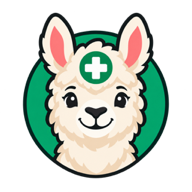
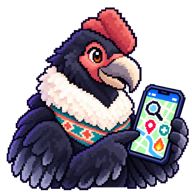
feat: rename project from FarmaJUY to CondorJUY and update related assets

diff --git a/components/pwa-actions.tsx b/components/pwa-actions.tsx
@@ -93,7 +93,7 @@ function getInstallGuide(environment: InstallEnvironment): InstallGuide {
     case 'ios-other':
       return {
         title: 'Instalar en iPhone o iPad',
-        intro: 'Desde el navegador donde abriste FarmaJUY:',
+        intro: 'Desde el navegador donde abriste CondorJUY:',
         steps: ['Abrí el menú del navegador y tocá Compartir.', 'Elegí Agregar a pantalla principal.', 'Confirmá tocando Agregar.'],
         note: 'La ubicación de Compartir puede variar según el navegador.',
       }
@@ -139,14 +139,14 @@ function getInstallGuide(environment: InstallEnvironment): InstallGuide {
     case 'android-webview':
       return {
         title: 'Abrir en un navegador para instalar',
-        intro: 'Abriste FarmaJUY dentro de otra aplicación:',
-        steps: ['Abrí el menú de esta pantalla.', 'Elegí Abrir en Chrome, Abrir en el navegador o una opción similar.', 'En el navegador, volvé a tocar Instalar FarmaJUY.'],
+        intro: 'Abriste CondorJUY dentro de otra aplicación:',
+        steps: ['Abrí el menú de esta pantalla.', 'Elegí Abrir en Chrome, Abrir en el navegador o una opción similar.', 'En el navegador, volvé a tocar Instalar CondorJUY.'],
         note: 'Los navegadores internos de algunas aplicaciones no permiten instalar aplicaciones web.',
       }
     case 'android-other':
       return {
         title: 'Instalar en Android',
-        intro: 'Desde el navegador donde abriste FarmaJUY:',
+        intro: 'Desde el navegador donde abriste CondorJUY:',
         steps: ['Abrí el menú del navegador.', 'Buscá Instalar, Añadir a o Agregar a pantalla principal.', 'Elegí la opción disponible y confirmá.'],
         note: 'Algunos navegadores crean un acceso directo en lugar de instalar la aplicación completa.',
       }
@@ -171,21 +171,21 @@ function getInstallGuide(environment: InstallEnvironment): InstallGuide {
     case 'mac-other':
       return {
         title: 'Instalar en macOS',
-        intro: 'Abrí FarmaJUY con Safari o Google Chrome para instalarla:',
+        intro: 'Abrí CondorJUY con Safari o Google Chrome para instalarla:',
         steps: ['En Safari: Compartir o Archivo → Agregar al Dock.', 'En Chrome: menú ⋮ → Enviar, guardar y compartir.', 'Elegí Instalar página como aplicación y confirmá.'],
         note: 'Safari requiere macOS Sonoma 14 o posterior.',
       }
     case 'windows-other':
       return {
         title: 'Instalar en Windows',
-        intro: 'Abrí FarmaJUY con Microsoft Edge o Google Chrome:',
+        intro: 'Abrí CondorJUY con Microsoft Edge o Google Chrome:',
         steps: ['Abrí el menú de tres puntos del navegador.', 'En Edge elegí Aplicaciones; en Chrome, Enviar, guardar y compartir.', 'Elegí Instalar este sitio/página como aplicación y confirmá.'],
         note: 'Algunos navegadores de escritorio no permiten instalar aplicaciones PWA.',
       }
     default:
       return {
         title: 'Instalar en la computadora',
-        intro: 'Abrí FarmaJUY con Google Chrome o Microsoft Edge:',
+        intro: 'Abrí CondorJUY con Google Chrome o Microsoft Edge:',
         steps: ['Abrí el menú de tres puntos del navegador.', 'Buscá la sección Aplicaciones o Enviar, guardar y compartir.', 'Elegí Instalar este sitio/página como aplicación y confirmá.'],
         note: 'Algunos navegadores de escritorio no permiten instalar aplicaciones PWA.',
       }
@@ -222,7 +222,7 @@ export function PwaActions({
       setInstallPrompt(null)
       setShowInstallHelp(false)
       setIsStandalone(true)
-      toast.success('FarmaJUY se instaló correctamente.')
+      toast.success('CondorJUY se instaló correctamente.')
     }
 
     window.addEventListener('beforeinstallprompt', handleInstallPrompt)
@@ -262,7 +262,7 @@ export function PwaActions({
     <>
       <div className="flex items-center gap-1">
         {canInstall && (
-          <Button type="button" size="icon" variant="outline" className="h-8 w-8 rounded-xl" onClick={install} aria-label="Instalar FarmaJUY" title="Instalar FarmaJUY">
+          <Button type="button" size="icon" variant="outline" className="h-8 w-8 rounded-xl" onClick={install} aria-label="Instalar CondorJUY" title="Instalar CondorJUY">
             <Download className="h-4 w-4" />
           </Button>
         )}

diff --git a/public/sw.js b/public/sw.js
@@ -1,7 +1,7 @@
-const CACHE_VERSION = 'farmajuy-v1'
+const CACHE_VERSION = 'condorjuy-v1'
 const DATA_CACHE = `${CACHE_VERSION}-data`
 const APP_CACHE = `${CACHE_VERSION}-app`
-const APP_SHELL = ['/', '/manifest.webmanifest', '/farmajuy-icon.png', '/icon-192x192.png', '/icon-512x512.png']
+const APP_SHELL = ['/', '/manifest.webmanifest', '/condorjuy-icon.png', '/icon-192x192.png', '/icon-512x512.png']
 
 self.addEventListener('install', (event) => {
   event.waitUntil(caches.open(APP_CACHE).then((cache) => cache.addAll(APP_SHELL)))
@@ -41,7 +41,7 @@ self.addEventListener('fetch', (event) => {
           return response
         })
         .catch(async () => (await caches.match('/')) || new Response(
-          '<!doctype html><html lang="es"><meta charset="utf-8"><meta name="viewport" content="width=device-width"><title>FarmaJUY sin conexión</title><body><main><h1>Estás sin conexión</h1><p>Abrí FarmaJUY una vez con internet para guardar los últimos turnos.</p></main></body></html>',
+          '<!doctype html><html lang="es"><meta charset="utf-8"><meta name="viewport" content="width=device-width"><title>CondorJUY sin conexión</title><body><main><h1>Estás sin conexión</h1><p>Abrí CondorJUY una vez con internet para guardar los últimos turnos.</p></main></body></html>',
           { headers: { 'Content-Type': 'text/html; charset=utf-8' } },
         )),
     )

diff --git a/components/pharmacy/pharmacy-finder.tsx b/components/pharmacy/pharmacy-finder.tsx
@@ -598,8 +598,8 @@ export function PharmacyFinder() {
         <div className="flex items-center gap-2.5 min-w-0">
           <div className="h-10 w-10 shrink-0" aria-hidden="true">
             <Image
-              src="/farmajuy-icon.png"
-              alt="Logo SaludJUY"
+              src="/condorjuy-icon.png"
+              alt="Logo CondorJUY"
               width={40}
               height={40}
               priority
@@ -609,7 +609,7 @@ export function PharmacyFinder() {
           <div className="min-w-0">
             <div className="flex items-center gap-1.5">
               <h1 className="text-base sm:text-lg font-heading font-black text-foreground tracking-tight leading-none truncate">
-                SaludJUY
+                CondorJUY
               </h1>
               <span className="hidden sm:inline-flex items-center rounded-md bg-emerald-500/10 px-1.5 py-0.5 text-[9px] font-black text-emerald-700 dark:text-emerald-300 uppercase tracking-wider">
                 Jujuy Esencial

diff --git a/app/layout.tsx b/app/layout.tsx
@@ -18,14 +18,14 @@ const poppins = Poppins({
 })
 
 export const metadata: Metadata = {
-  applicationName: 'SaludJUY',
-  title: 'SaludJUY - Farmacias de turno, Centros de Salud y Bomberos en Jujuy',
+  applicationName: 'CondorJUY',
+  title: 'CondorJUY - Servicios esenciales en Jujuy',
   description: 'Mapa interactivo de servicios esenciales en Jujuy: farmacias de turno, nodos sanitarios, CAPS, CIC, puestos de salud y cuarteles de bomberos.',
   keywords: ['farmacias de turno', 'centros de salud', 'CAPS', 'hospital', 'bomberos', 'emergencias', 'Jujuy', 'Argentina'],
   appleWebApp: {
     capable: true,
     statusBarStyle: 'default',
-    title: 'SaludJUY',
+    title: 'CondorJUY',
   },
 }
 

diff --git a/components/feedback.tsx b/components/feedback.tsx
@@ -172,7 +172,7 @@ export function Feedback({ inline = false }: FeedbackProps) {
           <div className="py-6 text-center">
             <div className="mx-auto mb-3 flex h-12 w-12 items-center justify-center rounded-full bg-primary/10 text-2xl text-primary">✓</div>
             <DialogTitle>¡Gracias por escribirnos!</DialogTitle>
-            <p className="mt-2 text-sm text-muted-foreground">Leemos cada mensaje para mejorar FarmaJUY.</p>
+            <p className="mt-2 text-sm text-muted-foreground">Leemos cada mensaje para mejorar CondorJUY.</p>
             <Button className="mt-5" onClick={() => setOpen(false)}>Cerrar</Button>
           </div>
         ) : (

diff --git a/app/manifest.ts b/app/manifest.ts
@@ -2,8 +2,8 @@ import type { MetadataRoute } from 'next'
 
 export default function manifest(): MetadataRoute.Manifest {
   return {
-    name: 'SaludJUY — Farmacias, Centros de Salud y Bomberos en Jujuy',
-    short_name: 'SaludJUY',
+    name: 'CondorJUY — Servicios esenciales en Jujuy',
+    short_name: 'CondorJUY',
     description: 'Farmacias de turno, centros de salud (CAPS, Nodos, CIC) y cuarteles de bomberos en Jujuy.',
     id: '/',
     start_url: '/',

diff --git a/docs/ARQUITECTURA.md b/docs/ARQUITECTURA.md
@@ -1,8 +1,8 @@
-# FarmaJUY — documentación técnica
+# CondorJUY — documentación técnica
 
 ## 1. Propósito
 
-FarmaJUY permite consultar farmacias de turno y permanentes de Jujuy, ubicarlas en un mapa, calcular rutas y recibir feedback de los usuarios.
+CondorJUY permite consultar servicios esenciales de Jujuy, ubicarlos en un mapa, calcular rutas y recibir feedback de los usuarios.
 
 La solución está dividida en dos aplicaciones:
 
@@ -15,7 +15,7 @@ La fuente oficial de turnos es `https://turnosjujuy.com.ar/`. La información se
 
 ```mermaid
 flowchart LR
-    U[Usuario] --> UI[Next.js / FarmaJUY UI]
+    U[Usuario] --> UI[Next.js / CondorJUY UI]
     UI --> BFF[Next.js BFF\n/api/*]
     BFF --> CORE[NestJS / farmacias-core]
     CORE --> DB[(MongoDB)]

diff --git a/README.md b/README.md
@@ -1,6 +1,6 @@
-# FarmaJUY — frontend
+# CondorJUY — frontend
 
-Frontend Next.js 16 para consultar farmacias de turno y permanentes de Jujuy.
+Frontend Next.js 16 para consultar servicios esenciales de Jujuy.
 
 La documentación completa de arquitectura y flujos está en [docs/ARQUITECTURA.md](docs/ARQUITECTURA.md).
 
